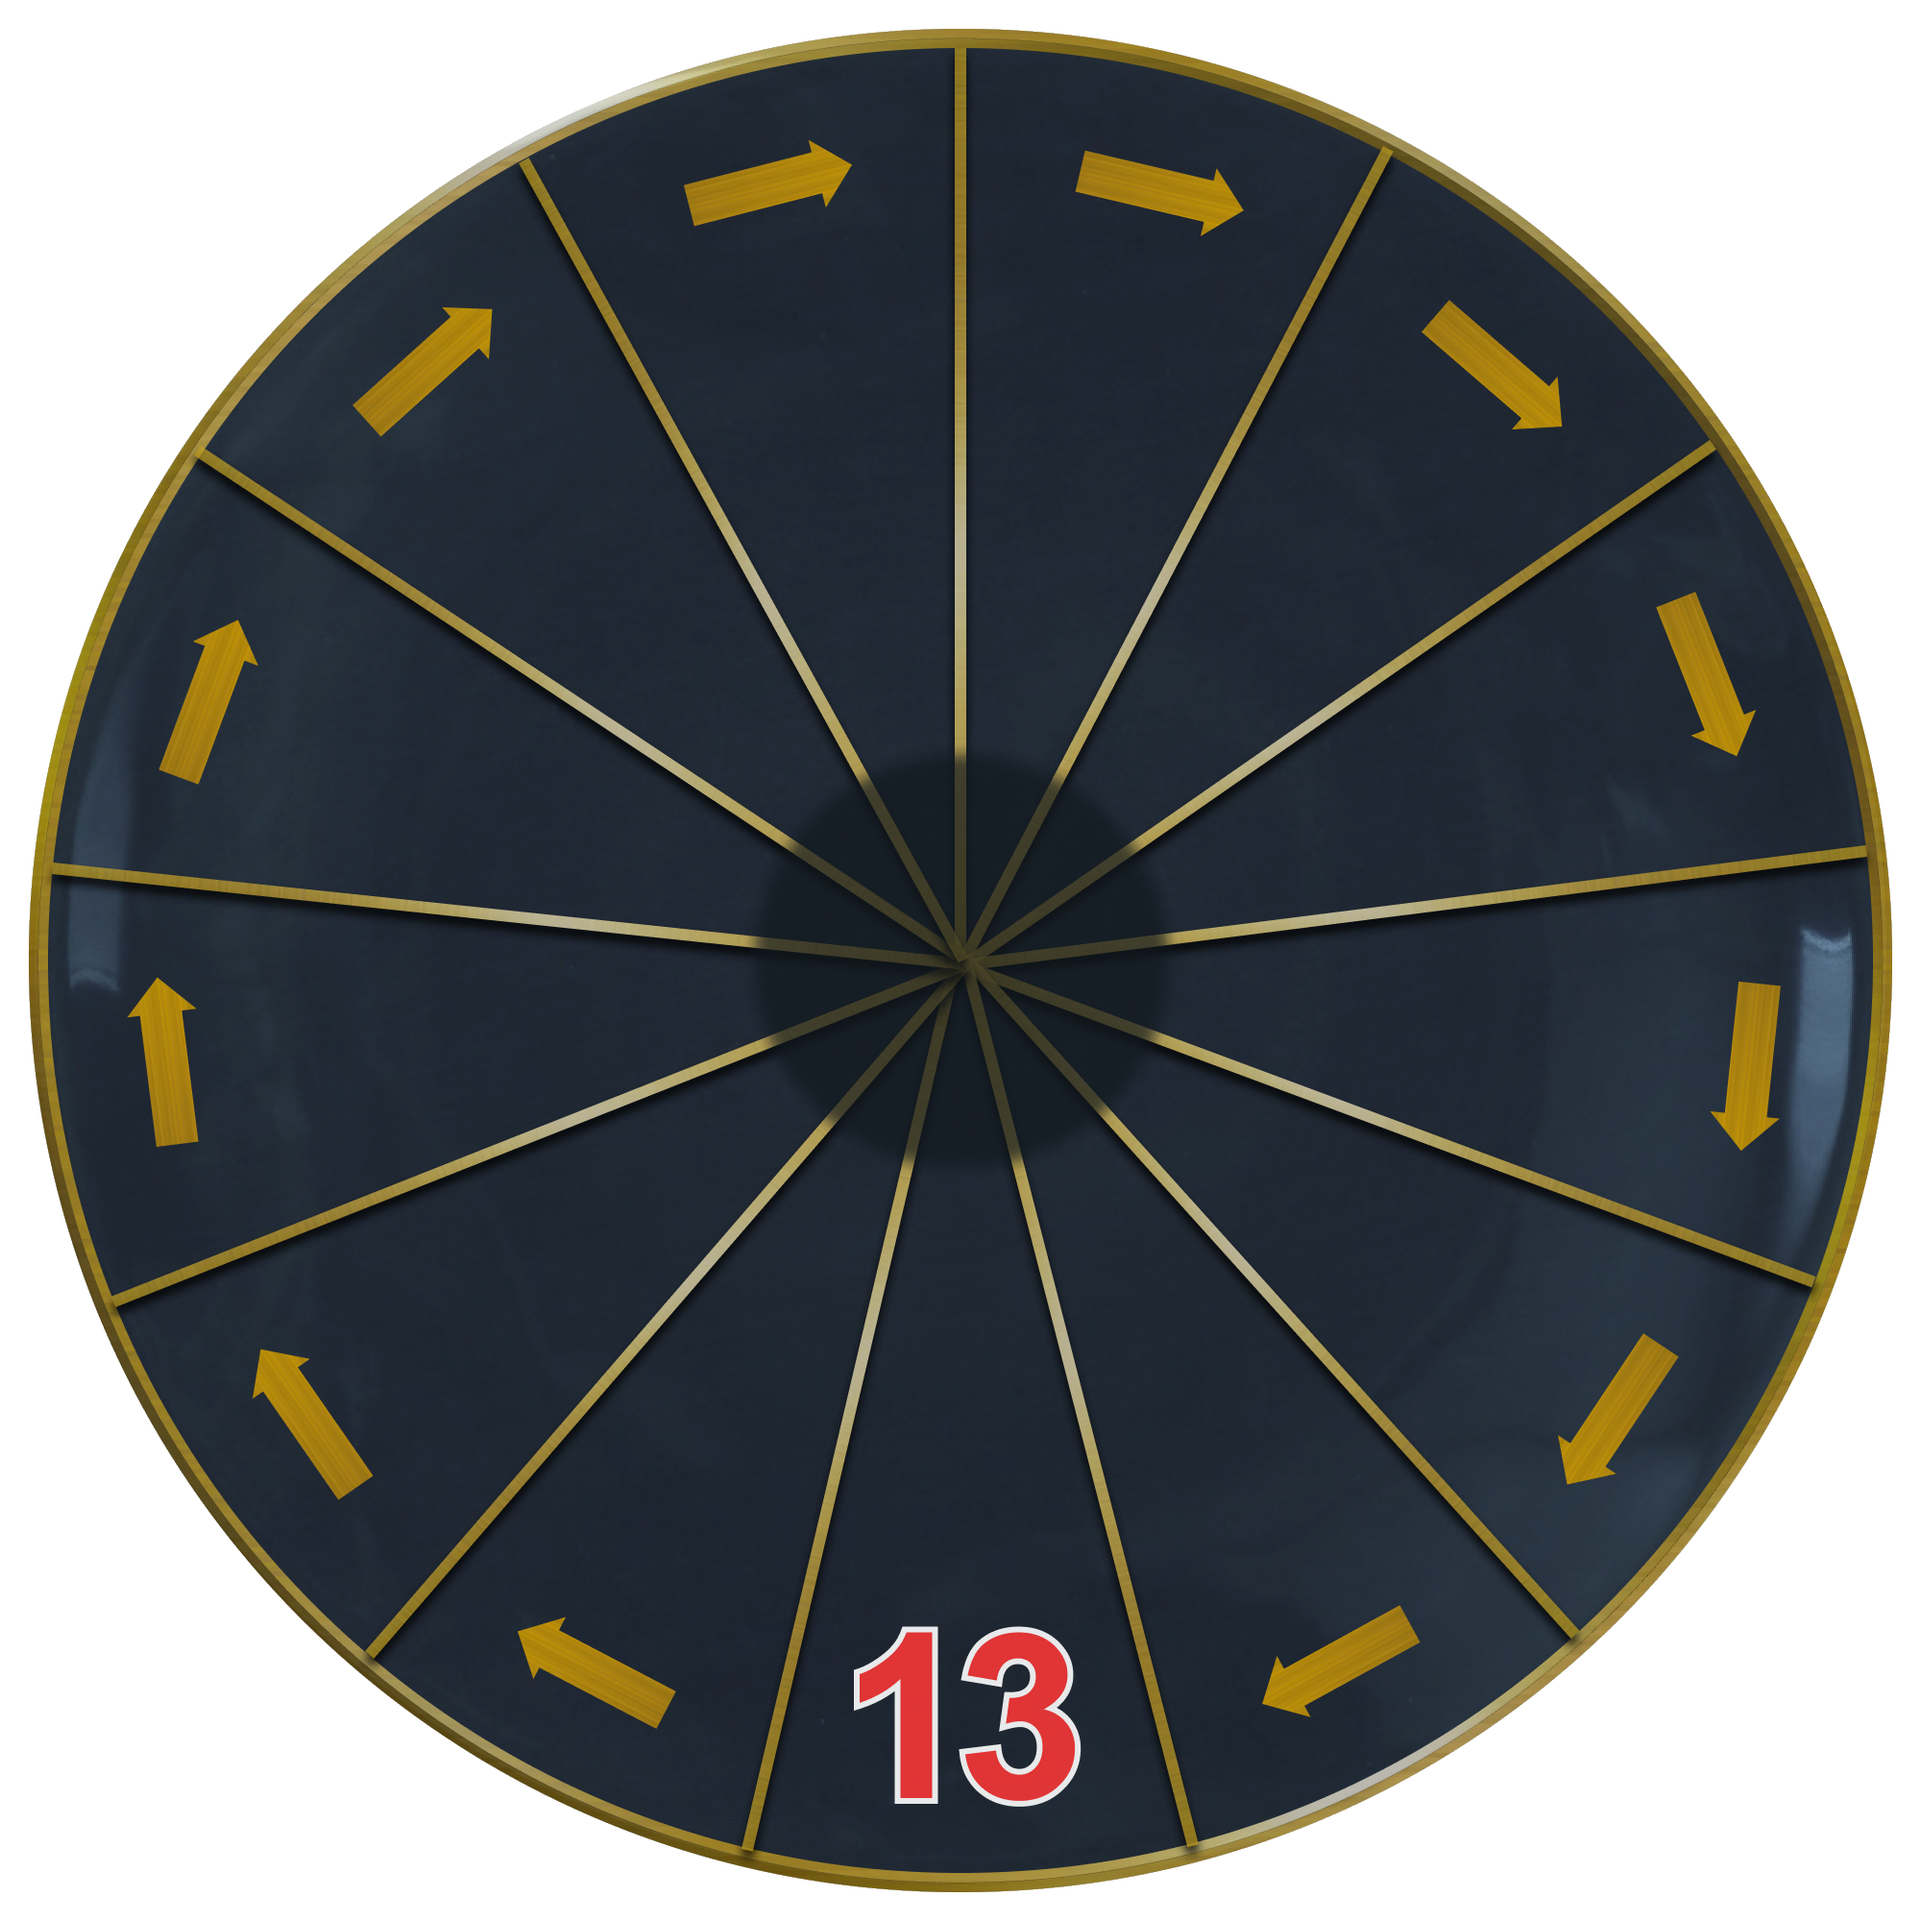
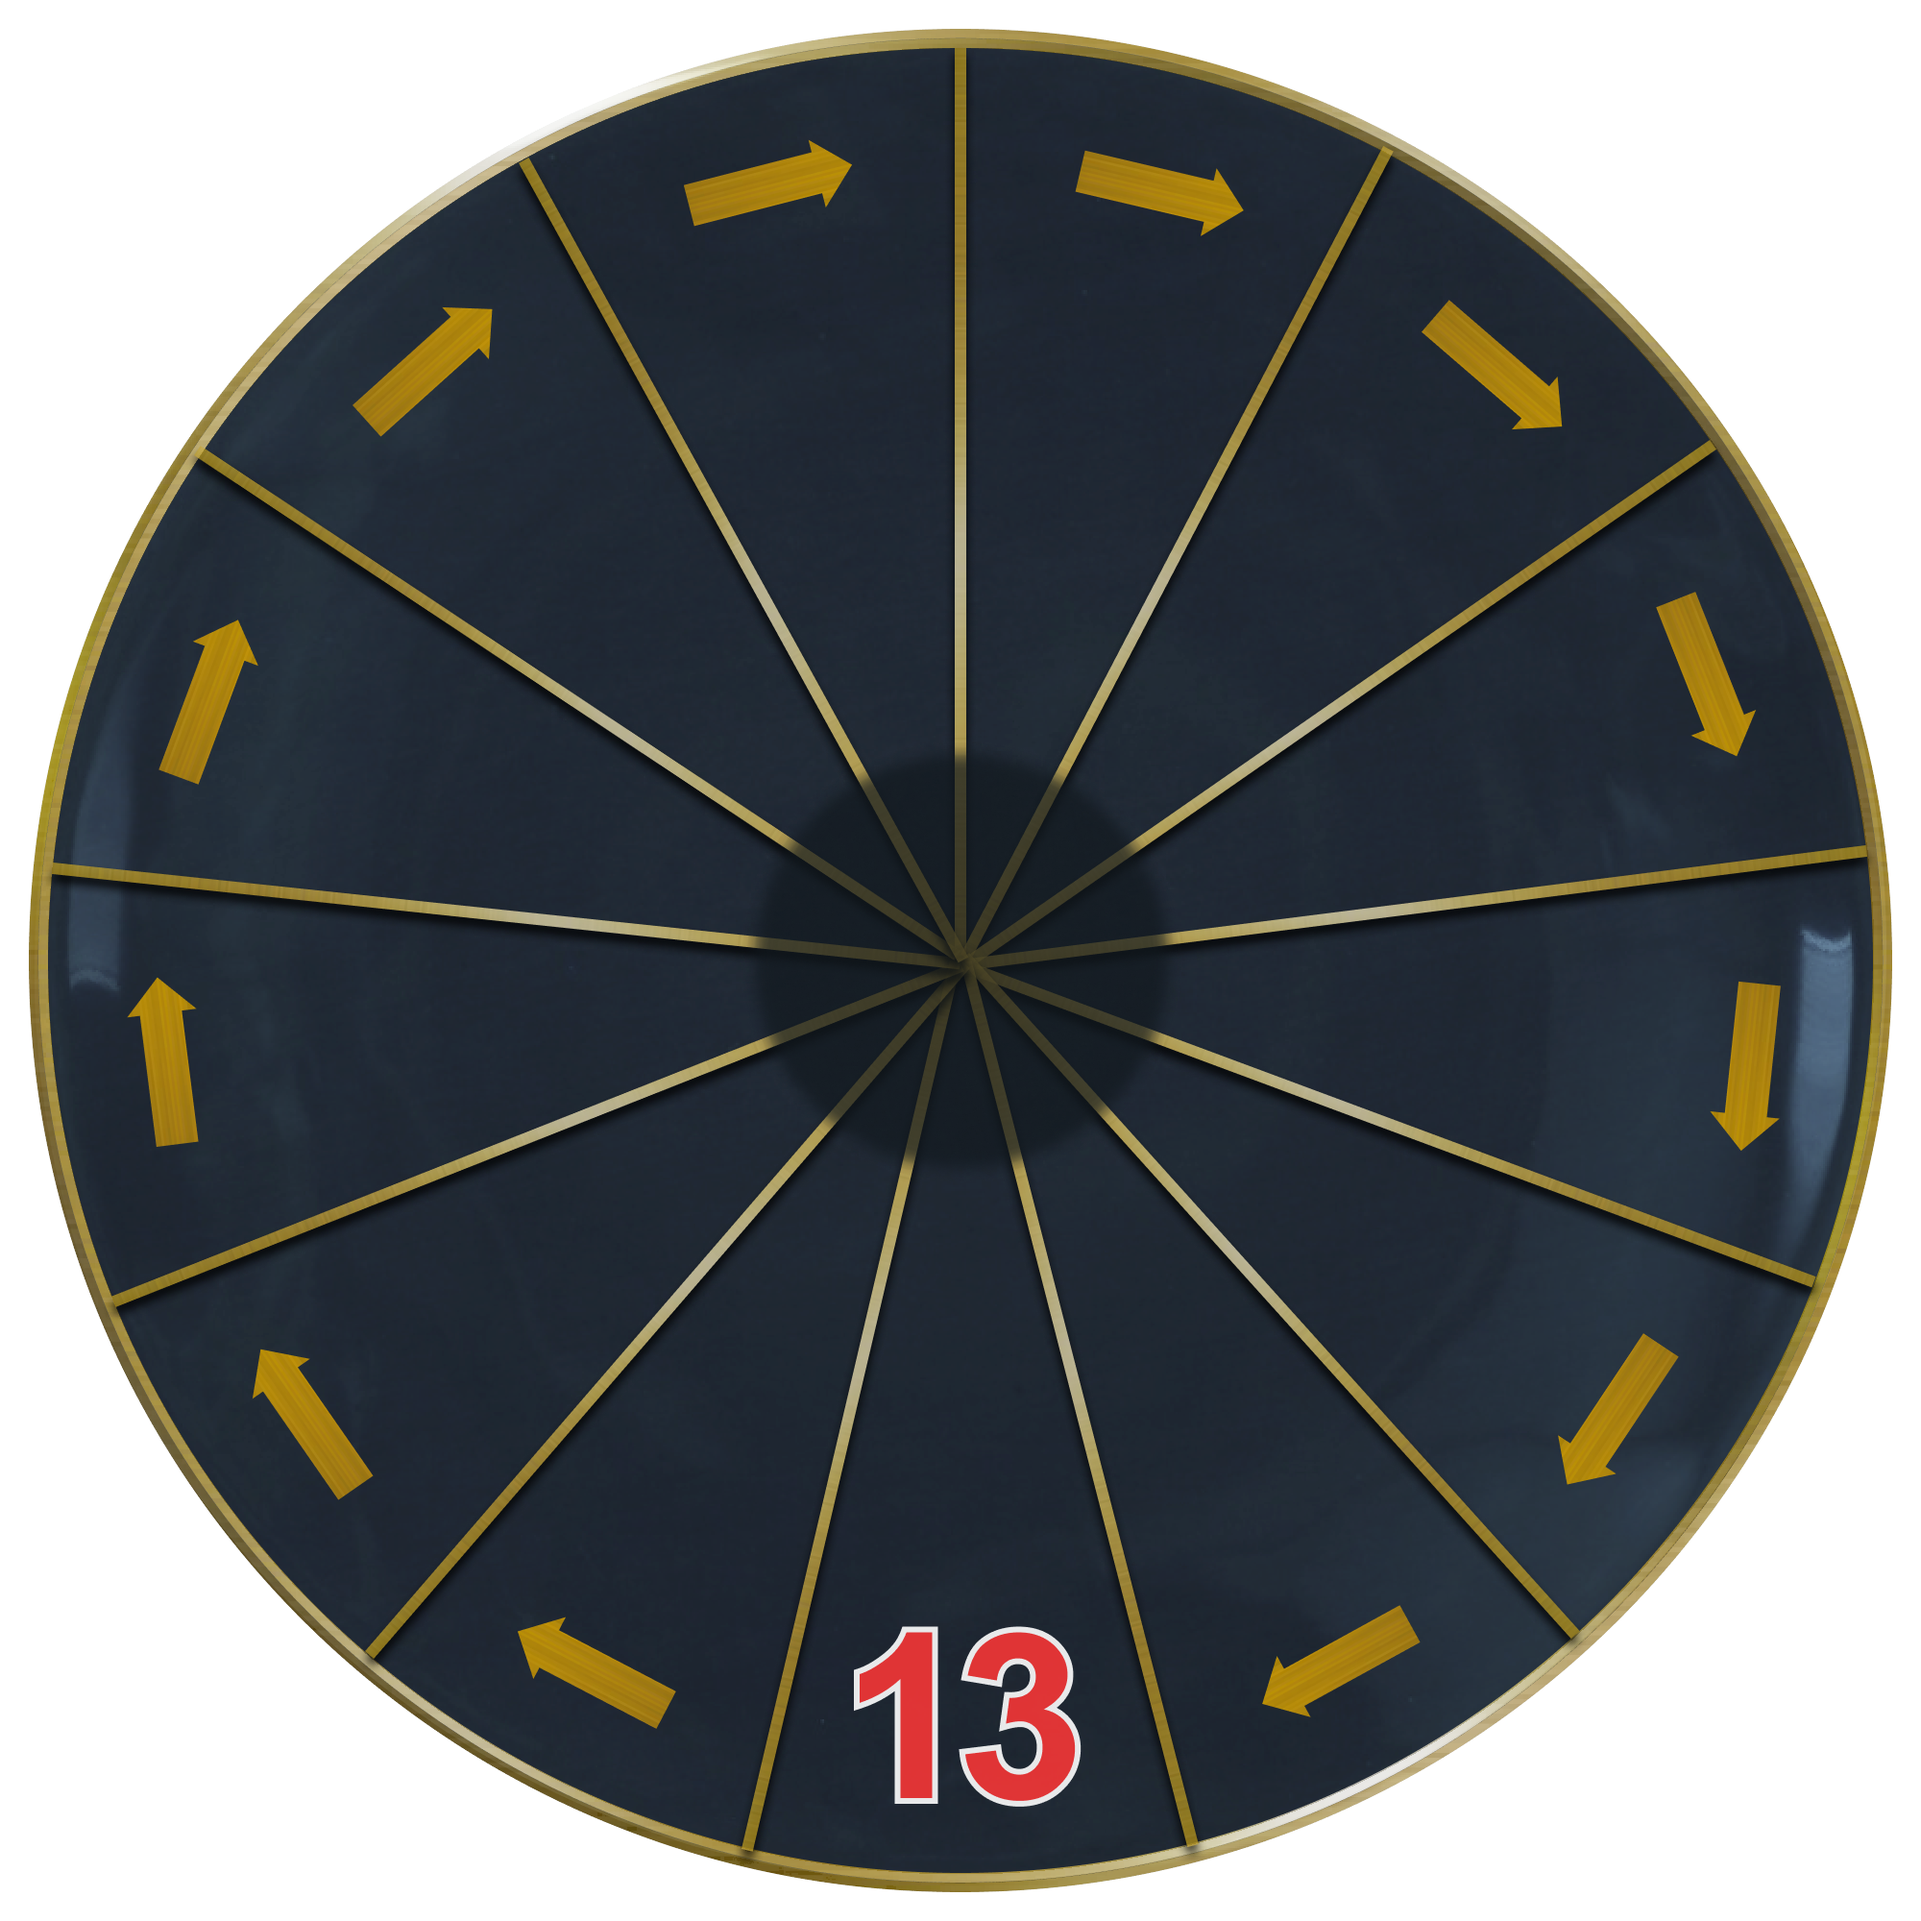
Remove table image backgrounds

diff --git a/web_chgka/docs/CURRENT_STATE.md b/web_chgka/docs/CURRENT_STATE.md
@@ -4,12 +4,14 @@
 - Latest completed task: `docs/tasks/0017-separate-login-entrypoints.md`
 - Active task: `docs/tasks/0018-transparent-table-background.md`
 - Branch: `task/transparent-table-background`
-- Status: table-background extraction is planned from synchronized `web` at `68edc87`; asset processing and verification are in progress.
+- Status: both transparent table assets are implemented and locally verified from synchronized `web` at `68edc87`; focused browser acceptance is pending.
 
 ## Repository checkpoint
 
 - `web` and `origin/web` are synchronized at `68edc87` before task 0018.
 - Task 0018 preserves both 2000×2000 table canvases and runtime paths, replacing only the white exterior with a clean alpha edge.
+- The final assets contain no generated pixels: an image-model draft was rejected for geometry drift, then the installed alpha helper plus an original-pixel protection mask produced the accepted candidates.
+- Task 0018 local verification: both RGBA assets have transparent corners and identical `1940×1940+30+30` content bounds, protected interiors have zero pixel difference, dark-background previews are clean, and frontend tests/build pass.
 - Roadmap item 16 records full user-facing UI localization as a separate future task; internal event/API/code identifiers remain out of scope for translation.
 
 - `web` and `origin/web` are synchronized at `7db38dc` before task 0017.
@@ -355,9 +357,9 @@ Within `web_chgka`, ignored `frontend/node_modules`, `frontend/dist`, and Python
 
 ## Recommended continuation
 
-1. Publish local `web` with merge `ff341d6` plus this handoff and confirm the Web CI run.
-2. After green remote verification, remove the merged local task branch; no remote task branch was created.
-3. Choose the next roadmap item; played-question history still needs a product decision, while personal questions and transparent table assets are already bounded implementation candidates.
+1. Run focused browser acceptance for both table variants on player and host screens.
+2. If accepted, close task 0018, merge it locally into `web`, publish `web`, and confirm the Web CI run.
+3. Choose the next roadmap item; played-question history needs a product decision, while personal questions and full UI localization are bounded candidates.
 
 ## Resume checklist
 

diff --git a/web_chgka/docs/tasks/0018-transparent-table-background.md b/web_chgka/docs/tasks/0018-transparent-table-background.md
@@ -1,7 +1,7 @@
 # 0018: Прозрачный фон игрового стола
 
 Branch: `task/transparent-table-background`
-Status: In progress
+Status: Implemented; awaiting browser acceptance
 
 ## Goal
 
@@ -18,8 +18,17 @@ Status: In progress
 
 - Перерисовка стола, стрелок, сектора 13, конвертов или волчка; изменение layout/анимации; оптимизация остальных изображений.
 
-## Verification plan
+## Implementation
 
-- Проверить формат, alpha channel, размеры, прозрачные углы и границы непустого содержимого обоих PNG.
-- Сравнить варианты до/после и убедиться, что различия внутри стола остались исходными.
-- Запустить frontend tests/build и визуально проверить оба состояния на player/admin фонах.
+- Built-in image edit был проверен и отброшен, потому что менял геометрию исходника; генеративные пиксели в итоговые assets не попали.
+- Белый фон преобразован в мягкий alpha matte штатным `imagegen` helper; защищённая внутренняя окружность затем побитово восстановлена из оригинала.
+- Оба runtime-файла заменены на RGBA PNG под прежними путями; frontend-код не менялся.
+
+## Local verification
+
+- Оба PNG: 2000×2000 RGBA, corner alpha `0`, center alpha `1`, non-empty alpha bounds `1940×1940+30+30`.
+- Максимальная RGB/alpha-разница внутри защищённой окружности для обоих вариантов равна нулю.
+- Композитные preview на `#0f172a` player и `#1e1b4b` host backgrounds не показывают белого ореола.
+- `npm test`: 9 test files passed.
+- `npm run build`: passed.
+- Остался browser smoke обоих runtime-состояний на player/admin экранах.
